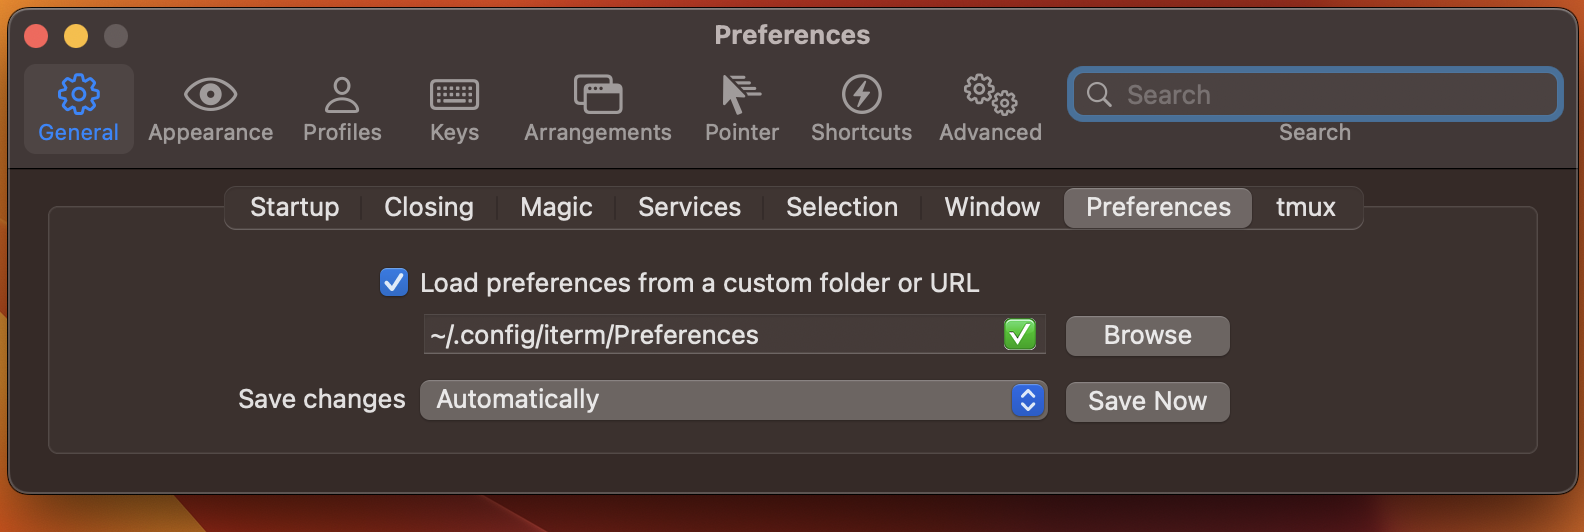
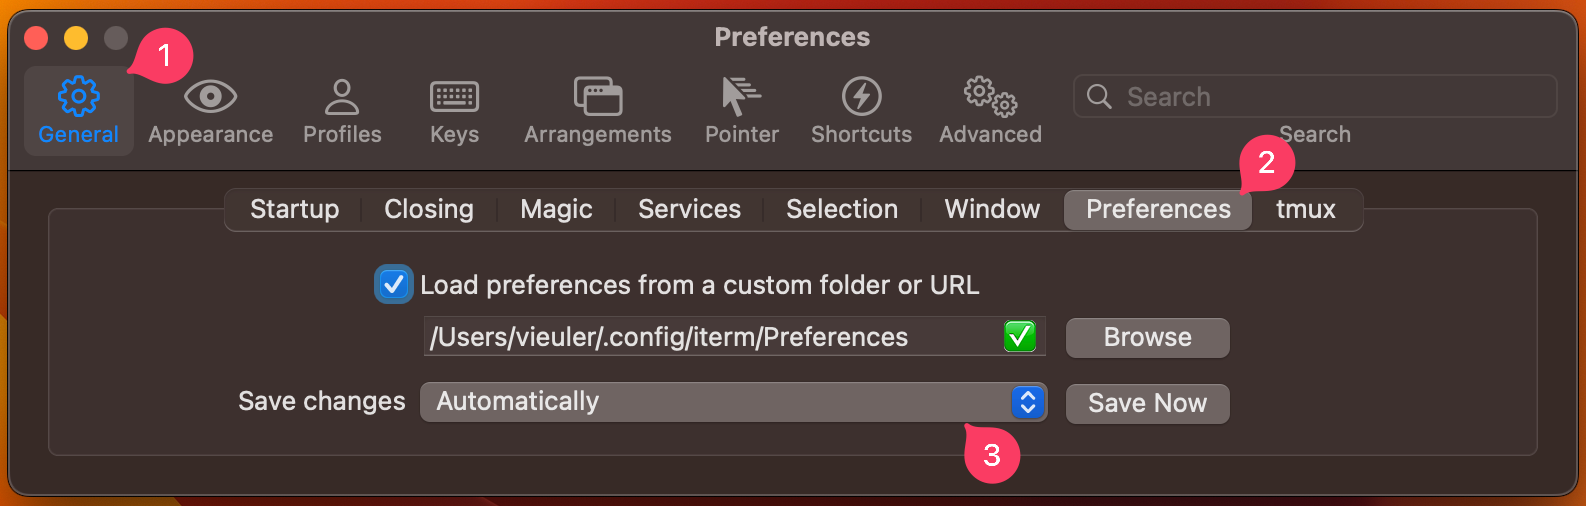
Add post-installation shottr info, update screenshots

Changed region(s): [[0.0, 0.0, 1.0, 1.0], [0.4331, 0.1482, 0.4949, 0.2075]]

diff --git a/README.md b/README.md
@@ -12,7 +12,7 @@ Welcome to the backbone of my MacOS setup! This repository contains my personall
   - Navigate to `System Preferences -> Privacy & Security -> Full Disk Access`
   - Locate your current terminal in the list and check it, or click the `+` button to add your terminal application.
   - If the terminal application was open during this process, quit and restart it to ensure changes take effect.
-  <img src="./assets/full-disk.png" alt="MacOS Ventura full disk access" width="70%"/>
+  <img src="./assets/full_disk.png" alt="MacOS Ventura full disk access" width="70%"/>
 - `git` installed. If you need to install Homebrew first, see lines 60-61 in `run.m4` for installation commands.
 
 ### The _Runner_
@@ -61,6 +61,12 @@ With the prerequisites in place, follow these steps to get the dotfiles up and r
 2. Open iTerm, go to `General -> Preferences` Change `Save changes` to **Automatically**.
 
    <img src="./assets/iterm_pref_autosave.png" alt="Screenshot of iTerm preferences pane where we have to modify `save changes` to automatically from the dropdown." width="70%"/>
+
+### Additional App-Specific Steps
+
+On first run of Shottr, make sure you turn off the default screenshot keybindings for full screen and area screenshots. Go to `System Preferences -> Keyboard -> Keyboard Shortcuts -> Screenshots`
+
+<img src="./assets/screenshot_keybindings.png" alt="Screenshot of iTerm preferences pane where we have to modify `save changes` to automatically from the dropdown." width="70%"/>
 
 ## Gotchas
 
